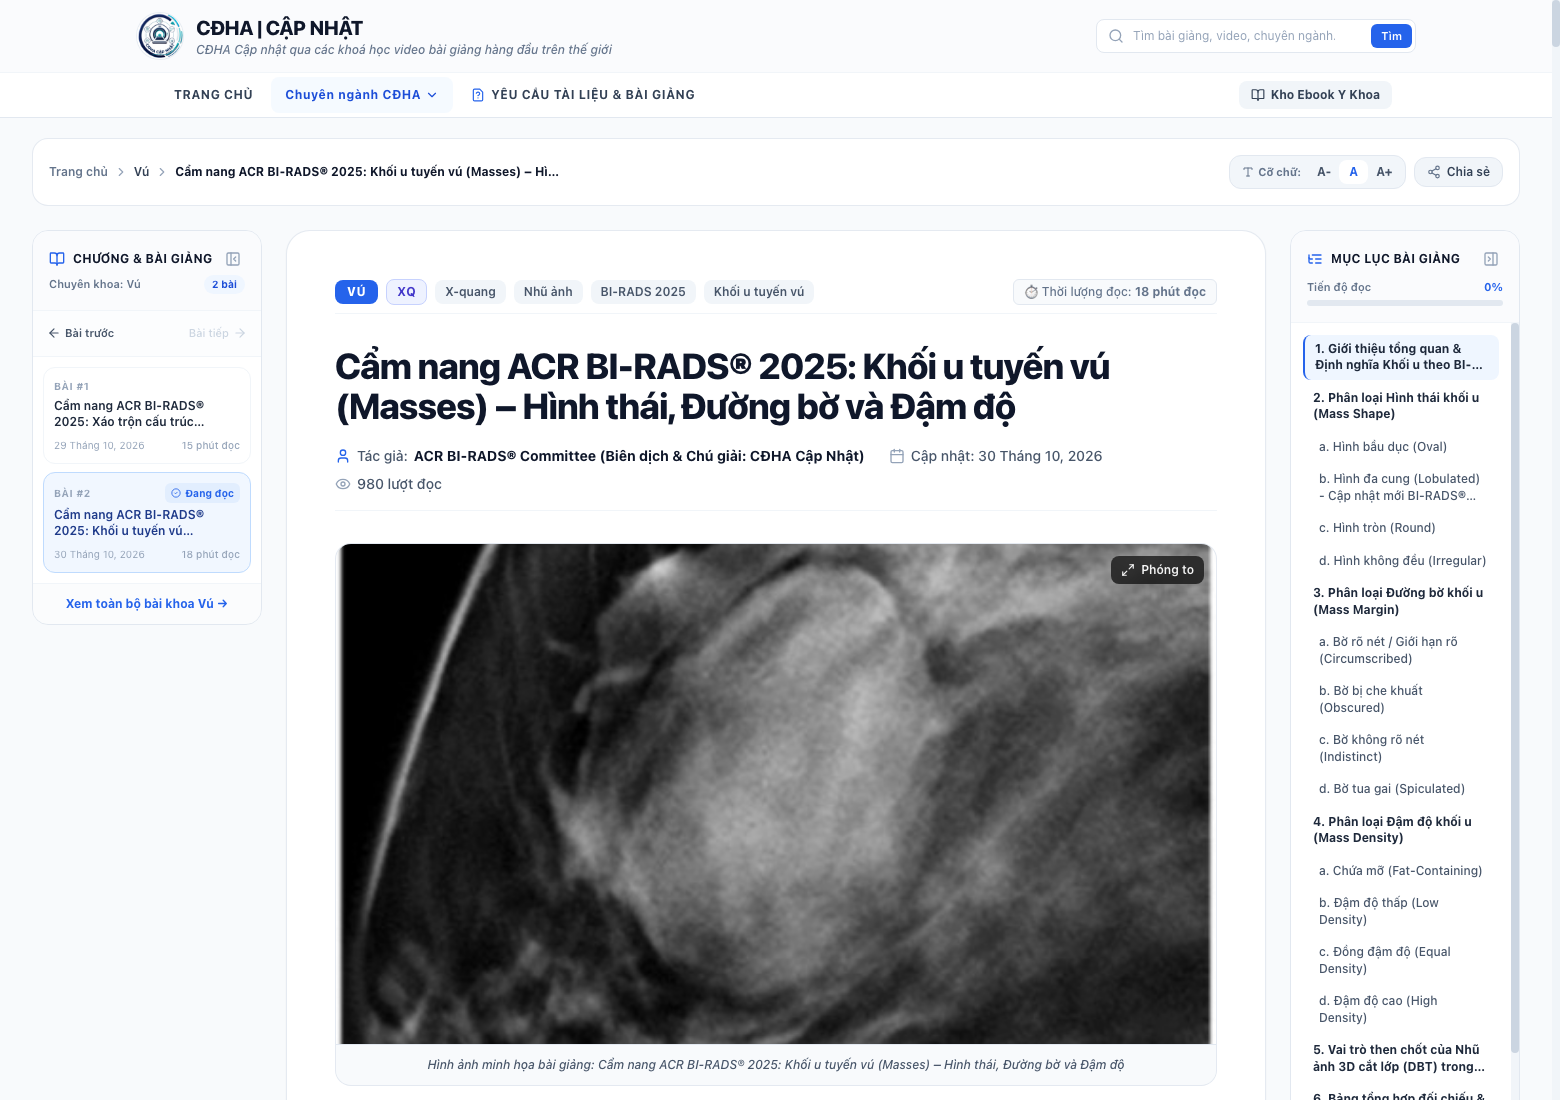
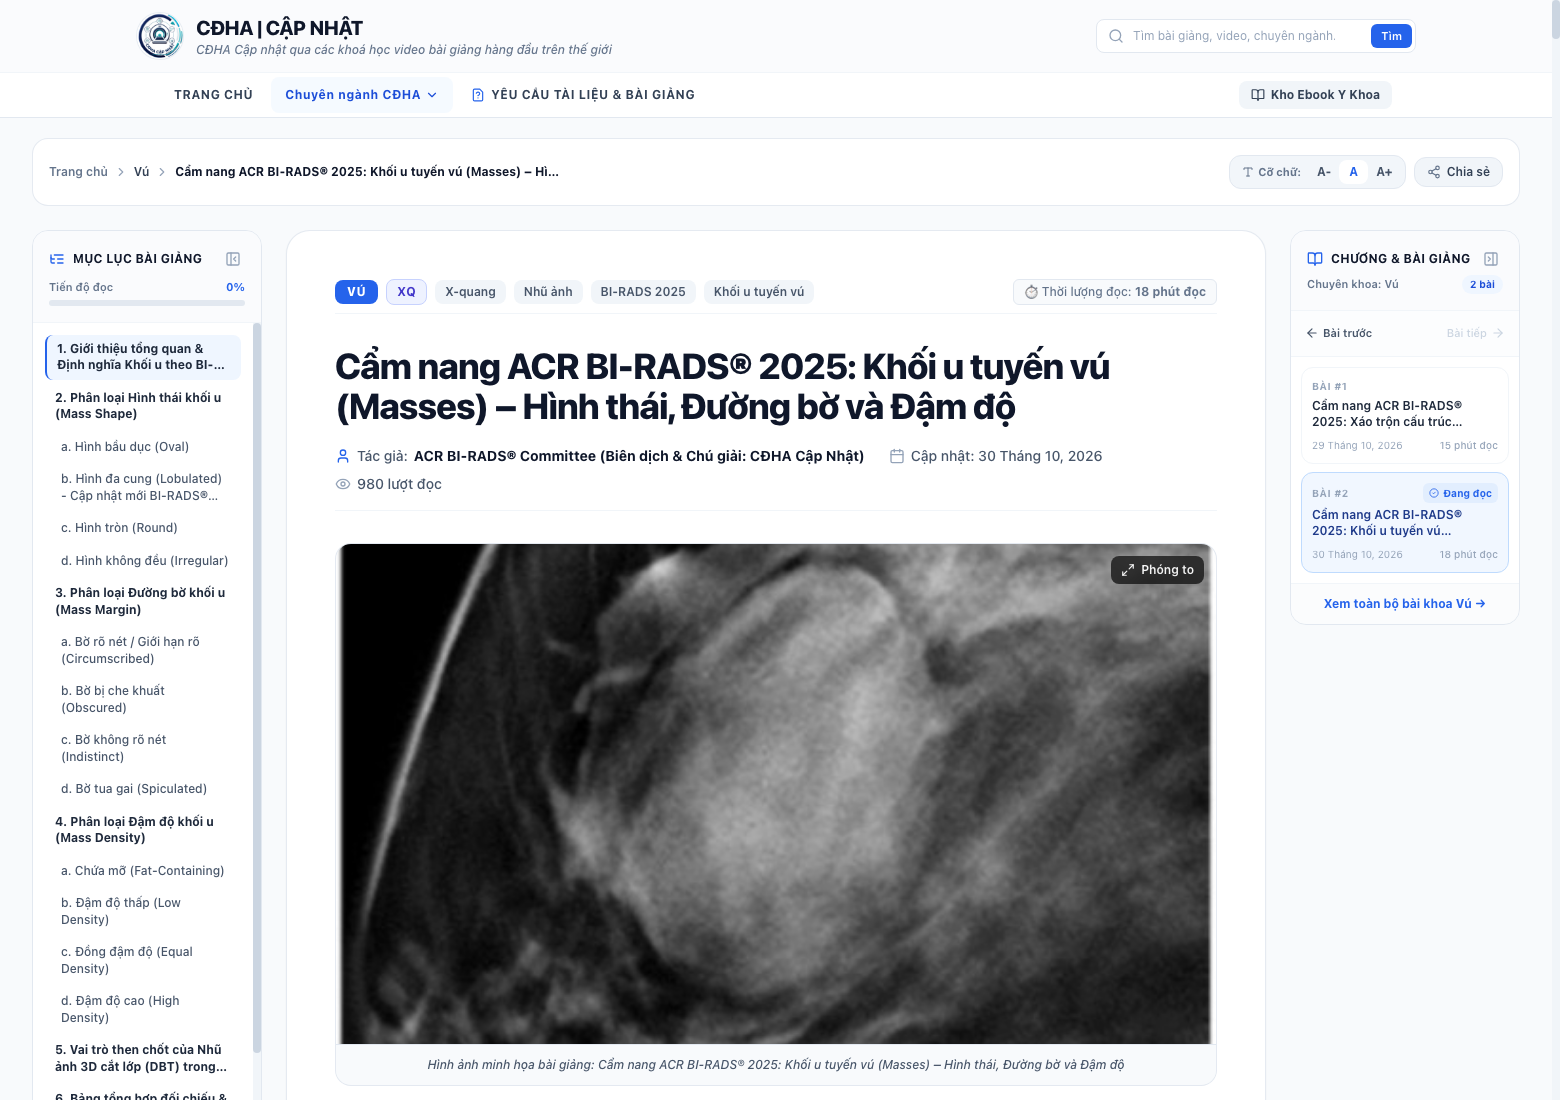
Dua Muc luc bai giang sang cot ben trai va danh muc chuong sang cot ben phai, loai bo hoan toan khoi toc inline cot giua

diff --git a/src/data/posts.ts b/src/data/posts.ts
@@ -21,40 +21,6 @@ export const POSTS: Post[] = [
       "BI-RADS® 2025 cập nhật thuật ngữ hình thái mới 'Đa cung' (Lobulated) và hướng dẫn đánh giá tối ưu đường bờ khối u trực tiếp trên các lát cắt mỏng của DBT."
     ],
     htmlContent: `
-      <div class="toc-box">
-        <h4 class="font-bold text-slate-900 text-sm mb-2 uppercase tracking-wide">Mục Lục Bài Giảng</h4>
-        <ul class="text-xs space-y-1.5 text-blue-700">
-          <li><a href="#phan-1-dinh-nghia" class="hover:underline">1. Giới thiệu tổng quan & Định nghĩa Khối u theo BI-RADS® v2025</a></li>
-          <li><a href="#phan-2-hinh-thai" class="hover:underline">2. Phân loại Hình thái khối u (Mass Shape)</a>
-            <ul class="pl-4 space-y-1 text-slate-600">
-              <li><a href="#shape-oval" class="hover:underline">a. Hình bầu dục (Oval) - Hình 1 đến Hình 5</a></li>
-              <li><a href="#shape-lobulated" class="hover:underline">b. Hình đa cung (Lobulated) - Cập nhật mới BI-RADS 2025 - Hình 1 đến Hình 6</a></li>
-              <li><a href="#shape-round" class="hover:underline">c. Hình tròn (Round) - Hình 1 đến Hình 6</a></li>
-              <li><a href="#shape-irregular" class="hover:underline">d. Hình không đều (Irregular) - Hình 1 đến Hình 6</a></li>
-            </ul>
-          </li>
-          <li><a href="#phan-3-duong-bo" class="hover:underline">3. Phân loại Đường bờ khối u (Mass Margin)</a>
-            <ul class="pl-4 space-y-1 text-slate-600">
-              <li><a href="#margin-circumscribed" class="hover:underline">a. Bờ rõ nét / Giới hạn rõ (Circumscribed) - Hình 1 đến Hình 6</a></li>
-              <li><a href="#margin-obscured" class="hover:underline">b. Bờ bị che khuất (Obscured) - Hình 1 đến Hình 6</a></li>
-              <li><a href="#margin-indistinct" class="hover:underline">c. Bờ không rõ nét (Indistinct) - Hình 1 đến Hình 6</a></li>
-              <li><a href="#margin-spiculated" class="hover:underline">d. Bờ tua gai (Spiculated) - Hình 1 đến Hình 8</a></li>
-            </ul>
-          </li>
-          <li><a href="#phan-4-dam-do" class="hover:underline">4. Phân loại Đậm độ khối u (Mass Density)</a>
-            <ul class="pl-4 space-y-1 text-slate-600">
-              <li><a href="#density-fat" class="hover:underline">a. Chứa mỡ (Fat-Containing) - Hình 1 đến Hình 7</a></li>
-              <li><a href="#density-low" class="hover:underline">b. Đậm độ thấp (Low Density) - Hình 1 đến Hình 4</a></li>
-              <li><a href="#density-equal" class="hover:underline">c. Đồng đậm độ (Equal Density) - Hình 1 đến Hình 5</a></li>
-              <li><a href="#density-high" class="hover:underline">d. Đậm độ cao (High Density) - Hình 1 đến Hình 6</a></li>
-            </ul>
-          </li>
-          <li><a href="#phan-5-dbt" class="hover:underline">5. Vai trò then chốt của Nhũ ảnh 3D cắt lớp (DBT) trong đánh giá khối</a></li>
-          <li><a href="#phan-6-bang-so-sanh" class="hover:underline">6. Bảng tổng hợp đối chiếu & Nguy cơ ác tính</a></li>
-          <li><a href="#phan-7-keypoints-pitfalls" class="hover:underline">7. Điểm cốt lõi cần nhớ (Key Points) & Cạm bẫy chẩn đoán (Diagnostic Pitfalls)</a></li>
-        </ul>
-      </div>
-
       <h2 id="phan-1-dinh-nghia">1. Giới thiệu tổng quan & Định nghĩa Khối u theo BI-RADS® v2025</h2>
       <p>
         Trong thuật ngữ Nhũ ảnh của Hiệp hội Điện quang Hoa Kỳ (American College of Radiology - ACR), <strong>Khối (Mass)</strong> là một cấu trúc choán chỗ ba chiều (3-dimensional, space-occupying structure). Khối có đường bờ lồi hoàn toàn hoặc một phần và khi cản tia (radiodense), khối sẽ xuất hiện đậm hơn ở trung tâm so với vùng ngoại vi.
@@ -729,22 +695,6 @@ export const POSTS: Post[] = [
       "Đối với các dạng bất đối xứng (Asymmetries), BI-RADS® v2025 đã chính thức loại bỏ thuật ngữ 'Developing Asymmetry' khỏi bảng danh mục mô tả, đồng thời đưa ra các tiêu chuẩn rõ ràng để tiếp cận Bất đối xứng toàn thể (Global Asymmetry) và Bất đối xứng một bình diện (Asymmetry)."
     ],
     htmlContent: `
-
-
-      <div class="toc-box">
-        <h4 class="font-bold text-slate-900 text-sm mb-2 uppercase tracking-wide">Mục Lục Bài Giảng</h4>
-        <ul class="text-xs space-y-1.5 text-blue-700">
-          <li><a href="#phan-1-tong-quan" class="hover:underline">1. Giới thiệu tổng quan & Ý nghĩa lâm sàng</a></li>
-          <li><a href="#phan-2-xao-tron-cau-truc" class="hover:underline">2. Xáo trộn cấu trúc (Architectural Distortion)</a></li>
-          <li><a href="#phan-3-cac-ca-xao-tron-cau-truc" class="hover:underline">3. Ca bệnh minh họa: Xáo trộn cấu trúc (Hình 1 - Hình 7)</a></li>
-          <li><a href="#phan-4-tong-quan-bat-doi-xung" class="hover:underline">4. Các dạng bất đối xứng (Asymmetries) & Điểm mới BI-RADS® v2025</a></li>
-          <li><a href="#phan-5-bat-doi-xung-toan-the" class="hover:underline">5. Bất đối xứng toàn thể (Global Asymmetry) & Ca minh họa</a></li>
-          <li><a href="#phan-6-bat-doi-xung-mot-binh-dien" class="hover:underline">6. Bất đối xứng một bình diện (Asymmetry) & Ca minh họa</a></li>
-          <li><a href="#phan-7-bang-so-sanh" class="hover:underline">7. Bảng tổng hợp so sánh & Lưu đồ xử trí</a></li>
-          <li><a href="#phan-8-key-points" class="hover:underline">8. Điểm cốt lõi cần nhớ (Key Points) & Cạm bẫy chẩn đoán (Pitfalls)</a></li>
-        </ul>
-      </div>
-
       <h2 id="phan-1-tong-quan">1. Giới thiệu tổng quan & Ý nghĩa lâm sàng</h2>
       <p>
         Trong chẩn đoán hình ảnh tuyến vú, bên cạnh các khối u dạng nốt (masses) và vi vôi hóa nghi ngờ (calcifications), <strong>Xáo trộn cấu trúc (Architectural Distortion)</strong> và <strong>Các dạng bất đối xứng (Asymmetries)</strong> là hai nhóm dấu hiệu nhũ ảnh cực kỳ quan trọng nhưng cũng thường mang lại nhiều thách thức phân tích nhất cho các bác sĩ chẩn đoán hình ảnh.

diff --git a/src/components/reading/MedicalReadingLayout.tsx b/src/components/reading/MedicalReadingLayout.tsx
@@ -397,21 +397,19 @@ export default function MedicalReadingLayout({
 
         {/* 3-COLUMN DESKTOP LAYOUT (15% - 70% - 15%) */}
         <div className="flex flex-col lg:flex-row gap-6 items-start relative">
-          {/* CỘT TRÁI (15% trên Desktop ≥ 1440px): Chapter Navigation & Related Articles */}
+          {/* CỘT TRÁI (15% trên Desktop ≥ 1440px / Hiển thị từ Laptop ≥ 1024px): Mục lục bài giảng (Table of Contents) */}
           <aside
-            className={`hidden desktop:block shrink-0 transition-all duration-300 sticky top-24 z-20 ${
+            className={`hidden lg:block shrink-0 transition-all duration-300 sticky top-24 z-20 ${
               isLeftCollapsed
                 ? "w-[56px]"
-                : "w-[15%] min-w-[230px] max-w-[280px]"
+                : "w-[260px] desktop:w-[15%] desktop:min-w-[230px] desktop:max-w-[280px]"
             }`}
           >
-            <ChapterSidebar
-              currentPostId={post.id}
-              specialtyName={post.specialty}
-              specialtySlug={post.specialtySlug}
-              chapters={specialtyPosts}
-              prevPost={prevPost}
-              nextPost={nextPost}
+            <TableOfContents
+              headings={headings}
+              activeId={activeHeadingId}
+              readingProgress={readingProgress}
+              onHeadingClick={handleHeadingClick}
               isCollapsed={isLeftCollapsed}
               onToggleCollapse={() => setIsLeftCollapsed(!isLeftCollapsed)}
             />
@@ -615,19 +613,21 @@ export default function MedicalReadingLayout({
             </article>
           </main>
 
-          {/* CỘT PHẢI (15% trên Desktop ≥ 1440px / Hiển thị từ Laptop ≥ 1024px): Table of Contents / On This Page */}
+          {/* CỘT PHẢI (15% trên Desktop ≥ 1440px): Chapter Navigation & Related Articles */}
           <aside
-            className={`hidden lg:block shrink-0 transition-all duration-300 sticky top-24 z-20 ${
+            className={`hidden desktop:block shrink-0 transition-all duration-300 sticky top-24 z-20 ${
               isRightCollapsed
                 ? "w-[56px]"
-                : "w-[260px] desktop:w-[15%] desktop:min-w-[230px] desktop:max-w-[280px]"
+                : "w-[15%] min-w-[230px] max-w-[280px]"
             }`}
           >
-            <TableOfContents
-              headings={headings}
-              activeId={activeHeadingId}
-              readingProgress={readingProgress}
-              onHeadingClick={handleHeadingClick}
+            <ChapterSidebar
+              currentPostId={post.id}
+              specialtyName={post.specialty}
+              specialtySlug={post.specialtySlug}
+              chapters={specialtyPosts}
+              prevPost={prevPost}
+              nextPost={nextPost}
               isCollapsed={isRightCollapsed}
               onToggleCollapse={() => setIsRightCollapsed(!isRightCollapsed)}
             />

diff --git a/src/components/reading/TableOfContents.tsx b/src/components/reading/TableOfContents.tsx
@@ -1,7 +1,7 @@
 "use client";
 
-import React, { useState } from "react";
-import { ListTree, ChevronDown, ChevronRight, ArrowUp, PanelRightClose, PanelRightOpen } from "lucide-react";
+import React from "react";
+import { ListTree, ArrowUp, PanelLeftClose, PanelLeftOpen } from "lucide-react";
 
 export interface HeadingItem {
   id: string;
@@ -40,7 +40,7 @@ export default function TableOfContents({
           className="p-2 rounded-xl text-slate-500 hover:text-blue-600 hover:bg-blue-50 transition-colors"
           title="Mở rộng mục lục"
         >
-          <PanelRightOpen className="w-5 h-5" />
+          <PanelLeftOpen className="w-5 h-5" />
         </button>
         <span className="text-[11px] font-bold text-slate-500 [writing-mode:vertical-lr] rotate-180 tracking-wider">
           MỤC LỤC ({Math.round(readingProgress)}%)
@@ -73,7 +73,7 @@ export default function TableOfContents({
                 className="p-1 rounded-md text-slate-400 hover:text-slate-600 hover:bg-slate-200/60 transition-colors"
                 title="Thu gọn mục lục"
               >
-                <PanelRightClose className="w-4 h-4" />
+                <PanelLeftClose className="w-4 h-4" />
               </button>
             )}
           </div>
@@ -98,14 +98,13 @@ export default function TableOfContents({
       <div className="flex-1 overflow-y-auto p-3 space-y-1 text-xs">
         {headings.length === 0 ? (
           <p className="text-slate-400 italic text-center py-6 text-[11px]">
-            Đang phân tích cấu trúc bài viết...
+            Đang tải cấu trúc đề mục...
           </p>
         ) : (
           headings.map((heading) => {
             const isActive = activeId === heading.id;
             const isH2 = heading.level === 2;
             const isH3 = heading.level === 3;
-            const isH4 = heading.level >= 4;
 
             return (
               <button

diff --git a/src/components/reading/ChapterSidebar.tsx b/src/components/reading/ChapterSidebar.tsx
@@ -2,7 +2,7 @@
 
 import React from "react";
 import Link from "next/link";
-import { BookOpen, ChevronLeft, ChevronRight, CheckCircle2, Bookmark, ArrowLeft, ArrowRight, PanelLeftClose, PanelLeftOpen } from "lucide-react";
+import { BookOpen, CheckCircle2, ArrowLeft, ArrowRight, PanelRightClose, PanelRightOpen } from "lucide-react";
 import { Post } from "@/types";
 
 interface ChapterSidebarProps {
@@ -34,7 +34,7 @@ export default function ChapterSidebar({
           className="p-2 rounded-xl text-slate-500 hover:text-blue-600 hover:bg-blue-50 transition-colors"
           title="Mở rộng danh sách chương"
         >
-          <PanelLeftOpen className="w-5 h-5" />
+          <PanelRightOpen className="w-5 h-5" />
         </button>
         <span className="text-[11px] font-bold text-slate-500 [writing-mode:vertical-lr] rotate-180 tracking-wider">
           CHƯƠNG BÀI GIẢNG
@@ -59,7 +59,7 @@ export default function ChapterSidebar({
               className="p-1 rounded-md text-slate-400 hover:text-slate-600 hover:bg-slate-200/60 transition-colors shrink-0"
               title="Thu gọn danh sách chương"
             >
-              <PanelLeftClose className="w-4 h-4" />
+              <PanelRightClose className="w-4 h-4" />
             </button>
           )}
         </div>

diff --git a/src/app/globals.css b/src/app/globals.css
@@ -192,10 +192,6 @@ html {
   margin: 1.5rem 0;
 }
 .article-body .toc-box {
-  background-color: #f8fafc;
-  border: 1px solid #e2e8f0;
-  padding: 1rem 1.25rem;
-  border-radius: 0.75rem;
-  margin: 1.25rem 0 2rem 0;
+  display: none !important;
 }
 
